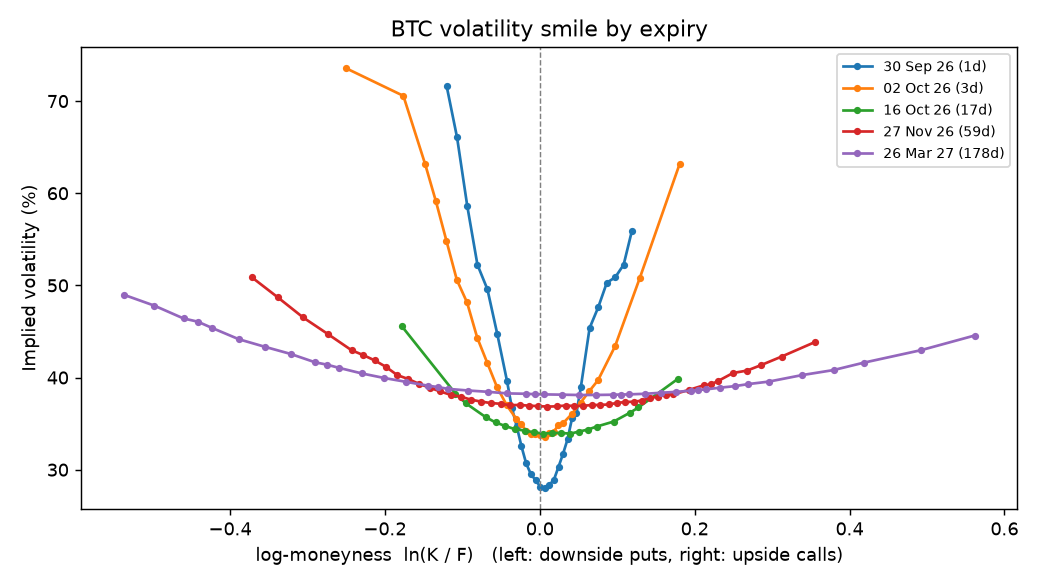
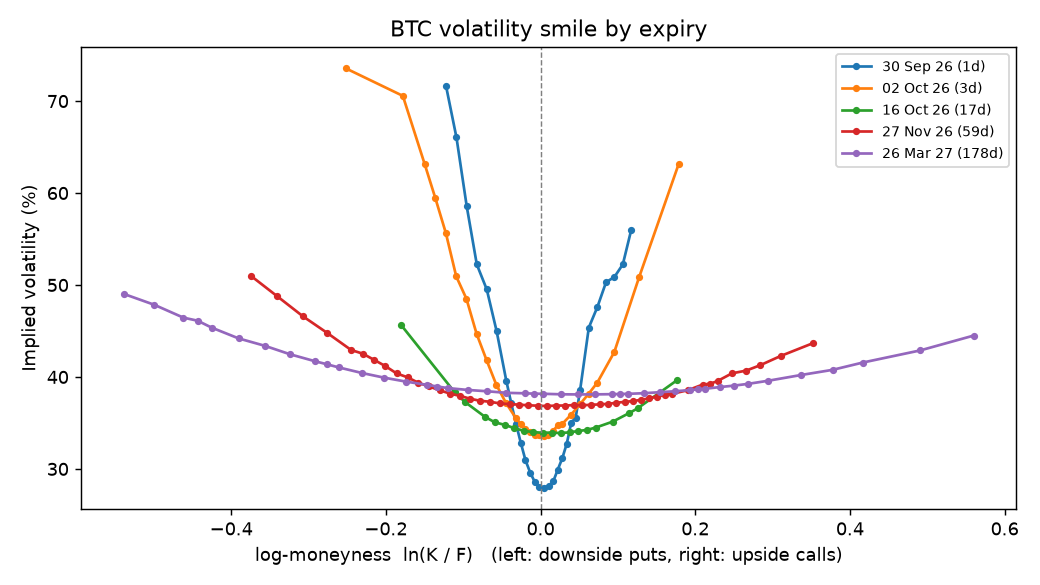
docs: add live results from 28 Sep 2026 snapshot

diff --git a/results/SNAPSHOT.md b/results/SNAPSHOT.md
@@ -1,6 +1,6 @@
 # BTC options snapshot
 
-Taken 2026-09-28T20:54:51+00:00 from Deribit's public API: 888 options across 11 expiries.
+Taken 2026-09-28T21:03:45+00:00 from Deribit's public API: 888 options across 11 expiries.
 
 ## Does our pricing engine agree with the exchange?
 
@@ -8,11 +8,11 @@ Our Newton-Raphson/bisection solver was run on every option's mark price and com
 
 | | |
 |---|---|
-| Options compared | 888 |
-| Median difference | 0.003 vol points |
-| 95th percentile difference | 0.066 vol points |
-| Within 0.5 vol points | 99.2% |
-| Solver returned no answer | 0 |
+| Options compared | 883 |
+| Median difference | 0.012 vol points |
+| 95th percentile difference | 0.621 vol points |
+| Within 0.5 vol points | 93.8% |
+| Solver returned no answer | 5 |
 
 ## Term structure and skew
 
@@ -20,17 +20,17 @@ Skew = implied vol 10% below the forward minus 10% above it (positive: downside 
 
 | Expiry | Days | Options | ATM IV | Skew |
 |---|---|---|---|---|
-| 2026-09-30 | 1.5 | 29 | 28.2% | +11.0 pts |
-| 2026-10-01 | 2.5 | 30 | 32.3% | +6.5 pts |
-| 2026-10-02 | 3.5 | 29 | 33.7% | +5.2 pts |
-| 2026-10-09 | 10.5 | 26 | 33.7% | +3.9 pts |
-| 2026-10-16 | 17.5 | 20 | 34.0% | +2.1 pts |
+| 2026-09-30 | 1.5 | 29 | 28.0% | +9.7 pts |
+| 2026-10-01 | 2.5 | 30 | 32.1% | +5.5 pts |
+| 2026-10-02 | 3.5 | 29 | 33.7% | +5.4 pts |
+| 2026-10-09 | 10.5 | 26 | 33.6% | +3.9 pts |
+| 2026-10-16 | 17.5 | 20 | 33.9% | +2.0 pts |
 | 2026-10-30 | 31.5 | 56 | 34.9% | +1.1 pts |
 | 2026-11-27 | 59.5 | 48 | 36.9% | +0.6 pts |
 | 2026-12-25 | 87.5 | 59 | 37.3% | +1.0 pts |
 | 2027-03-26 | 178.5 | 52 | 38.2% | +0.5 pts |
 | 2027-06-25 | 269.5 | 54 | 38.9% | +0.6 pts |
-| 2027-09-24 | 360.5 | 41 | 39.3% | +0.5 pts |
+| 2027-09-24 | 360.5 | 41 | 39.2% | +0.6 pts |
 
 ![Smile](smile.png)
 

diff --git a/README.md b/README.md
@@ -18,6 +18,23 @@ Three parts:
 ---
 
 ## How it works
+## Results
+
+Live snapshot of Deribit's BTC options market, 28 September 2026, 21:03 UTC.
+
+| | |
+|---|---|
+| Options priced | 888 options across 11 expiries |
+| Engine vs Deribit's published mark IV | median gap 0.012 vol points; 93.8% within 0.5 |
+| ~30-day ATM implied vol / skew (30 Oct 2026 expiry) | 34.9% / +1.1 vol points |
+| Term structure | ATM vol rises from 28.0% (1.5 days) to 39.2% (1 year) |
+| Short-dated skew | +9.7 vol points at 1.5 days, fading to about +0.5 beyond 3 months |
+| Hedging error, daily vs hourly rebalancing | 4.93× (theory √24 ≈ 4.90×) |
+| Hourly hedging on real BTC prices vs the model (std. dev. of P&L) | $836 vs $96, about 8.7× riskier; worst 5%: −$1,633 vs −$159 |
+
+Hedging on real prices is far riskier than Black-Scholes predicts: real Bitcoin jumps, and its volatility changes from month to month, so a single volatility is often the wrong price (experiment 2 below shows how much that costs). Based on about 24 non-overlapping 30-day windows over two years of hourly prices, so treat the size of the gap as indicative. Full reports: [SNAPSHOT.md](results/SNAPSHOT.md), [HEDGING.md](results/HEDGING.md).
+
+---
 
 ### 1. Pricing engine (`volab/bs.py`, `volab/iv.py`)
 Vectorised NumPy implementations of the Black-Scholes-Merton price and Greeks (delta, gamma, vega, theta, rho), plus **Black-76** for options on a forward price, which is how Deribit prices BTC options (each expiry against its own futures price).

diff --git a/results/HEDGING.md b/results/HEDGING.md
@@ -52,11 +52,11 @@ More frequent hedging cuts risk, but every rebalance pays costs: the best freque
 
 24 non-overlapping 30-day windows of real hourly BTC prices, each option sold at
 the period's median realised volatility (42.5%; individual windows ranged from
-28% to 68%), hedged hourly.
+29% to 68%), hedged hourly.
 
 | Paths | Mean P&L (USD) | Std. dev. (USD) | Worst 5% (USD) |
 |---|---|---|---|
-| Real BTC prices | -18 | 835 | -1,630 |
+| Real BTC prices | -10 | 836 | -1,633 |
 | Simulated (GBM), same volatility | -1 | 96 | -159 |
 
 Real prices jump and their volatility changes over time, which Black-Scholes assumes away. The gap between
